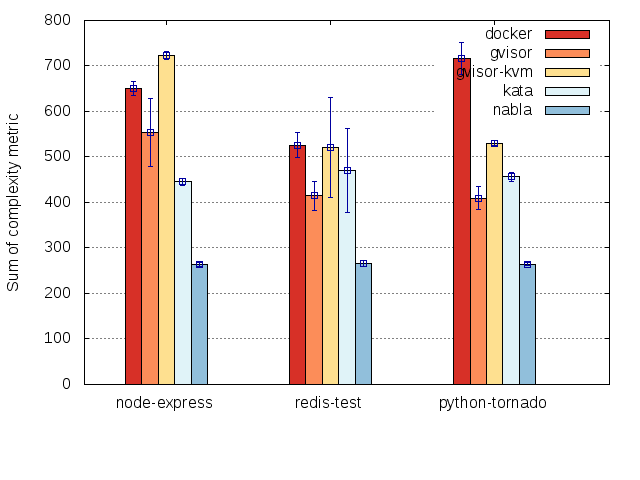
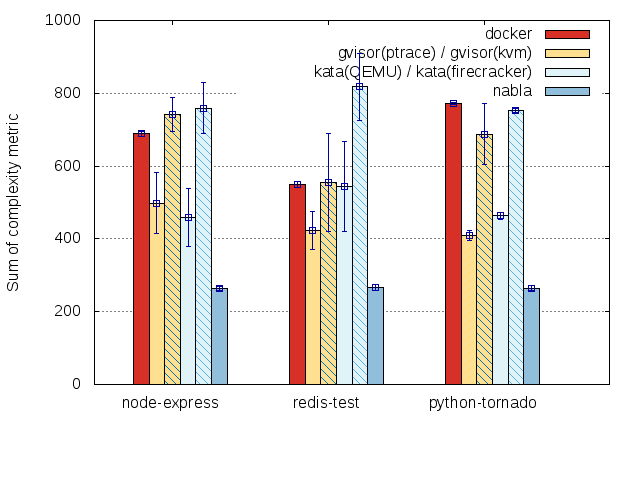
rerun measurements and add firecracker (#8)

diff --git a/README.md b/README.md
@@ -21,12 +21,14 @@ ends up in a directory for later perusal.
 The easiest way to replicate a test is to run commands of the form
 `./runtest.bash <RUNTIME> <CONTAINER> <OUTPUT_DIR>`.  RUNTIME can
 currently be `runc` (default docker), `runnc` (nabla), `kata` (kata
-containers), `runsc` (gvisor), or `runsck` (gvisor in kvm mode), and
-CONTAINER is one of those specified above.  Here are some examples:
+containers), `katafc` (kata containers with firecracker), `runsc`
+(gvisor), or `runsck` (gvisor in kvm mode), and CONTAINER is one of
+those specified above.  Here are some examples:
 
     sudo ./runtest.bash runc nablact/node-express results/docker-node-express
     sudo ./runtest.bash runnc nablact/node-express results/nabla-node-express
     sudo ./runtest.bash kata nablact/node-express results/kata-node-express
+    sudo ./runtest.bash katafc nablact/node-express results/katafc-node-express
     sudo ./runtest.bash runsc nablact/node-express results/gvisor-node-express
     sudo ./runtest.bash runsck nablact/node-express results/gvisork-node-express
     
@@ -50,9 +52,35 @@ repository](https://github.com/nabla-containers/runnc)):
                 "--platform=kvm"
             ]
         }
-
     }
 
+Note that in order to use kata with firecracker (`katafc`), there is a
+dependency on devicemapper that requires a particular (old) version of
+Docker.  For more information, see [this
+link](https://github.com/kata-containers/documentation/wiki/Initial-release-of-Kata-Containers-with-Firecracker-support).
+As a result, the above file needs further specification:
+
+    "runtimes": {
+        "storage-driver": "devicemapper",
+        "runnc": {
+            "path": "/usr/local/bin/runnc"
+        },
+        "kata": {
+            "path": "/usr/bin/kata-runtime"
+        },
+        "katafc": {
+            "path": "/opt/kata/bin/kata-fc"
+        },
+        "runsc": {
+            "path": "/usr/local/bin/runsc"
+        },
+        "runsck": {
+            "path": "/usr/local/bin/runsc",
+            "runtimeArgs": [
+                "--platform=kvm"
+            ]
+        }
+    }
 
 
 ###  Technical notes
